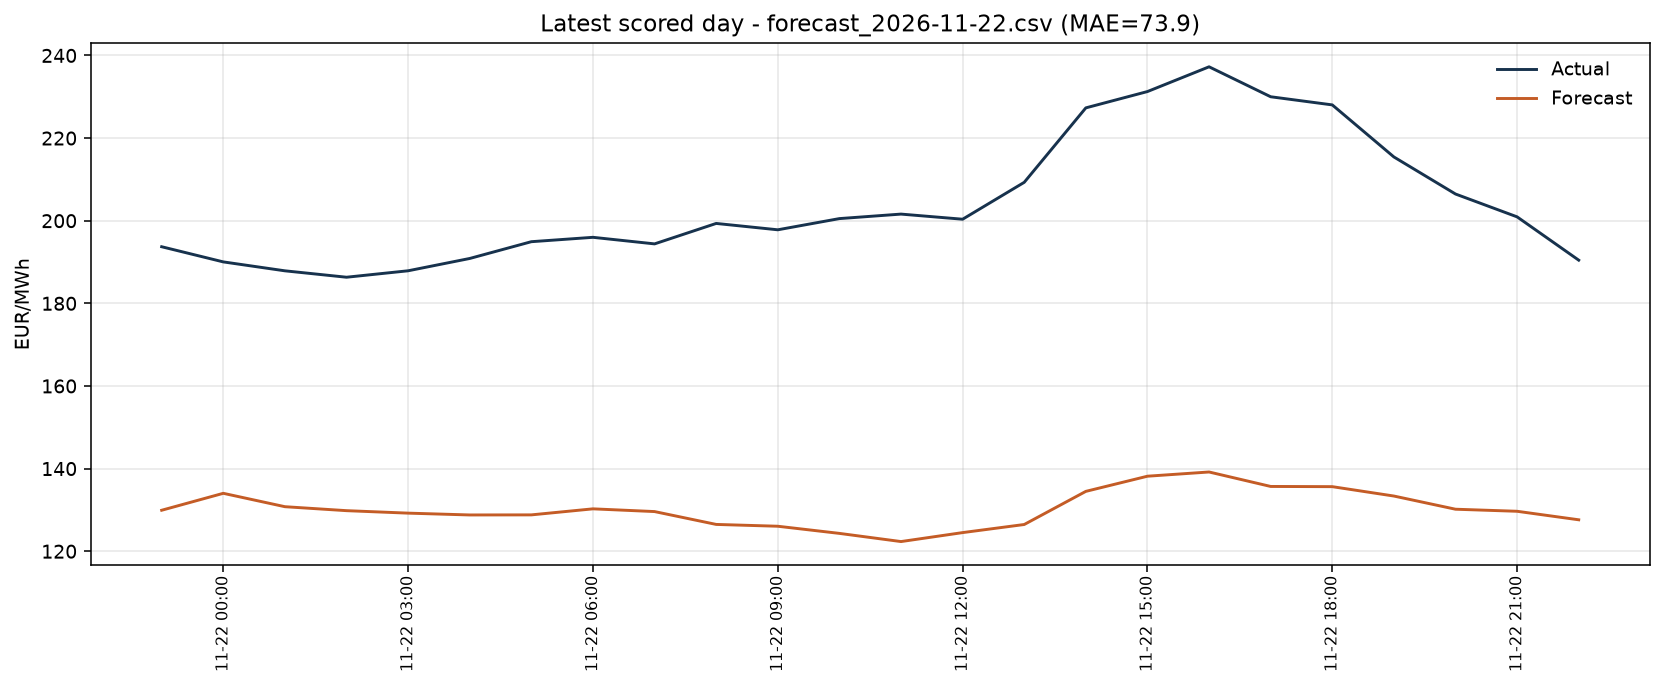
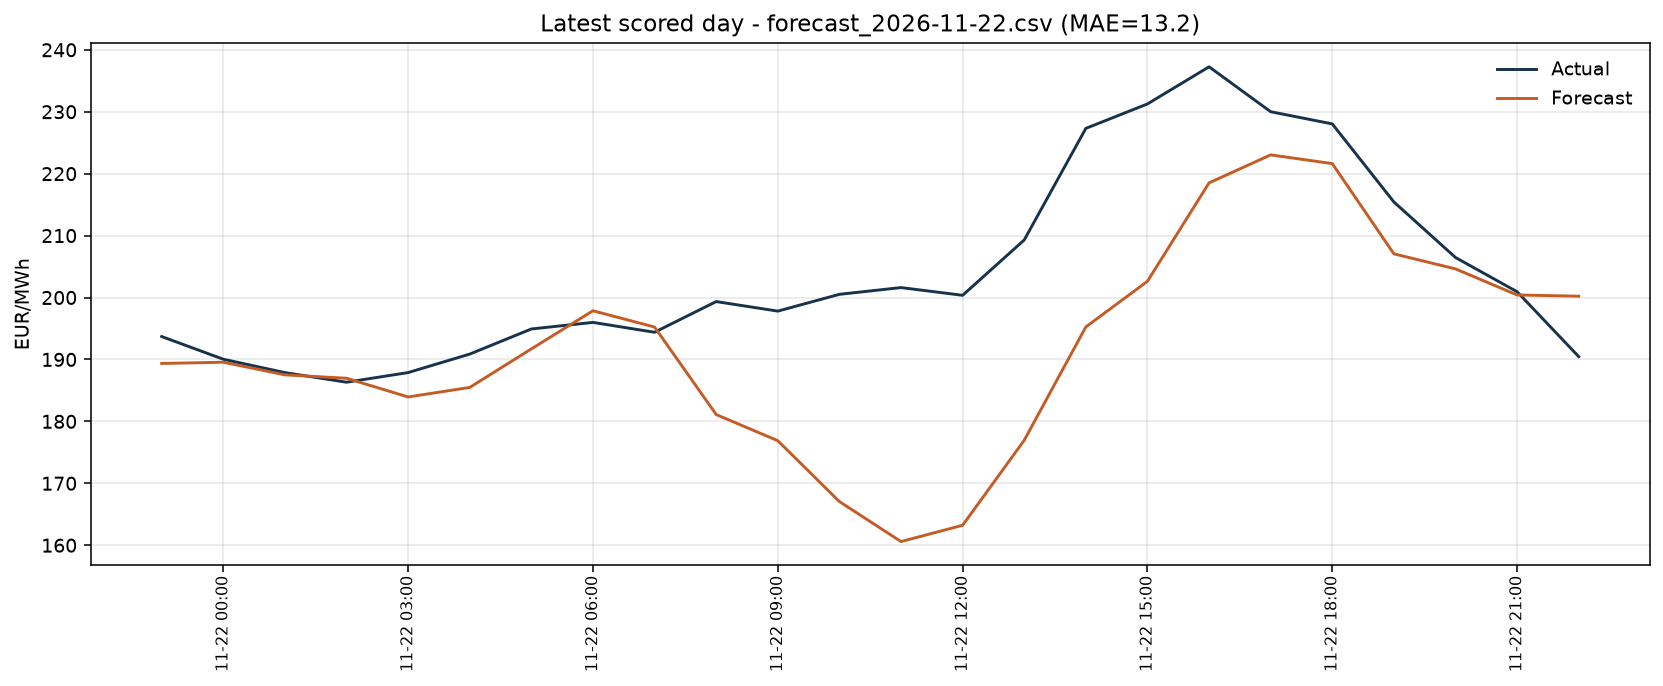
chore: daily forecast and evaluation update

diff --git a/README.md b/README.md
@@ -10,7 +10,7 @@ Leakage-aware forecasting of German EPEX Spot day-ahead prices (DE/LU, EUR/MWh) 
 ## Key findings (as of the latest run)
 
 <!-- KEY_START -->
-1. **Gate-safe model beats seasonal naive.** 25 % lower MAE than SN24 in an 89-day backtest and 26 % in a 28-day retrospective rolling check (section 5).
+1. **Gate-safe model beats seasonal naive.** 25 % lower MAE than SN24 in an 89-day backtest and 27 % in a 30-day retrospective rolling check (section 5).
 2. **The original rolling features leaked.** Removing the leak costs 2.00 EUR/MWh (7.1 % of MAE).
 3. External data lagged 24 h improve MAE by 1.24 EUR/MWh; un-lagged they would improve it by 7.6.
 4. **No claim about live performance yet.** Valid pre-gate live days are counted in the live block at the end of this file.
@@ -61,7 +61,7 @@ Entry points: `scripts/run_daily_forecast.py` (live), `scripts/run_rolling_eval.
 
 ## 5. Results
 
-_Auto-generated by `scripts/run_ablation.py` / `scripts/run_rolling_eval.py` - last update 2026-11-21 15:51 UTC._
+_Auto-generated by `scripts/run_ablation.py` / `scripts/run_rolling_eval.py` - last update 2026-11-22 09:51 UTC._
 
 ### 5.1 Backtest ablation (gate-closure protocol)
 
@@ -90,7 +90,7 @@ For each Berlin delivery day 2026-10-24 to 2026-11-22 the data from that day onw
 
 | Days | MAE model | MAE SN24 | MAE SN168 | Days model < SN24 | Days model < better of SN24/SN168 | DM p vs SN24 (daily) |
 |------|-----------|----------|-----------|-------------------|-----------------------------------|----------------------|
-| 28 | **37.57** | 50.84 | 99.57 | 19/28 | 17/28 | 0.001 |
+| 30 | **35.66** | 48.77 | 95.12 | 21/30 | 19/30 | <0.001 |
 
 ![Rolling check](reports/figures/rolling_eval.png)
 
@@ -179,9 +179,9 @@ Code: MIT. Market data remain under their original terms. SMARD-related series: 
 
 ## Live daily forecast
 
-**Generated (UTC):** 2026-11-21 15:50  
-**Based on data up to (UTC):** 2026-11-19 22:00  
-**Forecast horizon (UTC):** 2026-11-21 23:00 to 2026-11-22 22:00  
+**Generated (UTC):** 2026-11-22 09:50  
+**Based on data up to (UTC):** 2026-11-22 22:00  
+**Forecast horizon (UTC):** 2026-11-22 23:00 to 2026-11-23 22:00  
 **Protocol:** gate-closure features (lags >= 24 h, complete-day context) + external_shift = 24 + ENTSO-E load (no shift) + direct 24h + shrunk hourly bias correction
 
 ### Forecast chart
@@ -192,30 +192,30 @@ Code: MIT. Market data remain under their original terms. SMARD-related series: 
 
 | Hour (UTC) | Forecast (EUR/MWh) | Bias |
 |------------|--------------------|------|
-| 2026-11-21 23:00 | 129.92 | 0.00 |
-| 2026-11-22 00:00 | 134.02 | 0.00 |
-| 2026-11-22 01:00 | 130.78 | 0.00 |
-| 2026-11-22 02:00 | 129.82 | 0.00 |
-| 2026-11-22 03:00 | 129.22 | 0.00 |
-| 2026-11-22 04:00 | 128.78 | 0.00 |
-| 2026-11-22 05:00 | 128.80 | 0.00 |
-| 2026-11-22 06:00 | 130.26 | 0.00 |
-| 2026-11-22 07:00 | 129.60 | 0.00 |
-| 2026-11-22 08:00 | 126.49 | 0.00 |
-| 2026-11-22 09:00 | 126.05 | 0.00 |
-| 2026-11-22 10:00 | 124.32 | 0.00 |
-| 2026-11-22 11:00 | 122.34 | 0.00 |
-| 2026-11-22 12:00 | 124.51 | 0.00 |
-| 2026-11-22 13:00 | 126.47 | 0.00 |
-| 2026-11-22 14:00 | 134.49 | 0.00 |
-| 2026-11-22 15:00 | 138.16 | 0.00 |
-| 2026-11-22 16:00 | 139.18 | 0.00 |
-| 2026-11-22 17:00 | 135.68 | 0.00 |
-| 2026-11-22 18:00 | 135.63 | 0.00 |
-| 2026-11-22 19:00 | 133.36 | 0.00 |
-| 2026-11-22 20:00 | 130.17 | 0.00 |
-| 2026-11-22 21:00 | 129.67 | 0.00 |
-| 2026-11-22 22:00 | 127.61 | 0.00 |
+| 2026-11-22 23:00 | 193.74 | 0.51 |
+| 2026-11-23 00:00 | 200.84 | 1.66 |
+| 2026-11-23 01:00 | 198.77 | 2.17 |
+| 2026-11-23 02:00 | 197.17 | 1.84 |
+| 2026-11-23 03:00 | 196.14 | 2.76 |
+| 2026-11-23 04:00 | 198.18 | 2.03 |
+| 2026-11-23 05:00 | 214.42 | -1.23 |
+| 2026-11-23 06:00 | 226.81 | -1.37 |
+| 2026-11-23 07:00 | 225.99 | -1.64 |
+| 2026-11-23 08:00 | 223.76 | -4.48 |
+| 2026-11-23 09:00 | 217.09 | -5.89 |
+| 2026-11-23 10:00 | 207.17 | -5.33 |
+| 2026-11-23 11:00 | 201.73 | -3.60 |
+| 2026-11-23 12:00 | 205.93 | -1.97 |
+| 2026-11-23 13:00 | 213.14 | -0.93 |
+| 2026-11-23 14:00 | 232.97 | -1.35 |
+| 2026-11-23 15:00 | 239.34 | -0.75 |
+| 2026-11-23 16:00 | 245.68 | -2.49 |
+| 2026-11-23 17:00 | 243.07 | -4.17 |
+| 2026-11-23 18:00 | 237.77 | -4.27 |
+| 2026-11-23 19:00 | 230.96 | -3.28 |
+| 2026-11-23 20:00 | 227.50 | -5.11 |
+| 2026-11-23 21:00 | 226.73 | -6.10 |
+| 2026-11-23 22:00 | 219.56 | -6.31 |
 
 ### Previous forecasts vs realized prices
 
@@ -225,11 +225,13 @@ Code: MIT. Market data remain under their original terms. SMARD-related series: 
 | `forecast_2026-11-17.csv` | 24 | 55.82 | 46.58 | 139.90 | 1.20 | 0.40 | True | yes |
 | `forecast_2026-11-18.csv` | 24 | 51.79 | 72.19 | 170.40 | 0.72 | 0.30 | True | yes |
 | `forecast_2026-11-19.csv` | 24 | 40.31 | 78.58 | 36.01 | 0.51 | 1.12 | True | yes |
-| `forecast_2026-11-22.csv` | 24 | 73.86 | nan | 64.39 | nan | 1.15 | False | no: not pre-gate |
+| `forecast_2026-11-20.csv` | 24 | 21.69 | 12.24 | 52.85 | 1.77 | 0.41 | False | no: not pre-gate |
+| `forecast_2026-11-21.csv` | 24 | 46.96 | 29.54 | 12.64 | 1.59 | 3.71 | True | yes |
+| `forecast_2026-11-22.csv` | 24 | 13.23 | 16.53 | 64.38 | 0.80 | 0.20 | False | no: not pre-gate |
 
-**Valid scored days: 3 | mean MAE model 49.31 | SN24 65.78 | SN168 115.44 | best-of-baselines 51.59**
+**Valid scored days: 4 | mean MAE model 48.72 | SN24 56.72 | SN168 89.74 | best-of-baselines 41.86**
 
-**Days model beats SN24: 2/3 | beats the better of SN24/SN168: 1/3**
+**Days model beats SN24: 2/4 | beats the better of SN24/SN168: 1/4**
 
 _Only rows marked 'Counted = yes' enter the summary. Files from the old code (Pre-gate nan), post-gate runs and duplicate delivery days are shown for transparency but not counted. No statistical claim until >= 60 valid days._
 
